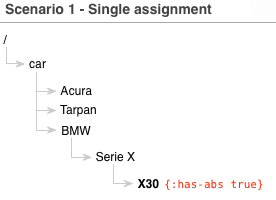
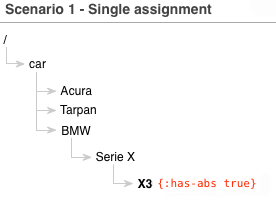
documentation updated

Changed region(s): [[0.5507, 0.87, 0.9565, 0.96]]

diff --git a/docs/literate.html b/docs/literate.html
@@ -2903,9 +2903,25 @@ down the tree.</p>
              :has-trailer {:excluded true}}}])</pre></td></tr><tr><td class="docs"><p>Creating a tree is trivial - <code>create-tree</code> function takes care of details. This function expects
 a structure as the one prepared earlier and returns a tree which can be used in further queries.</p>
 </td><td class="codes"><pre class="brush: clojure">(create-tree categories)</pre></td></tr><tr><td class="docs"><p>All queries have identical form: tree wrapped into <code>with-tree</code> macro is passed down as bound variable
-to <code>lookup</code> function traverses the tree looking for specified node and its parameters.</p>
+to <code>lookup</code> function which traverses the tree looking for specified node and its parameters.</p>
 </td><td class="codes"><pre class="brush: clojure">(with-tree (create-tree categories)
-  (lookup &quot;/car&quot;))</pre></td></tr><tr><td class="spacer docs">&nbsp;</td><td class="codes" /></tr></table><div class="footer">Generated by <a href="https://github.com/gdeer81/marginalia">Marginalia</a>.&nbsp;&nbsp;Syntax highlighting provided by Alex Gorbatchev's <a href="http://alexgorbatchev.com/SyntaxHighlighter/">SyntaxHighlighter</a><div id="floating-toc"><ul><li class="floating-toc-li" id="floating-toc_categorizer.examples.tree">categorizer.examples.tree</li></ul></div></div><script type="text/javascript">SyntaxHighlighter.defaults['gutter'] = false;
+  (lookup &quot;/car&quot;))</pre></td></tr><tr><td class="docs"><p>Depending on sticky/excluded flags we should get a node (if found) together with combined parameters. Look at the <code>has-alarm</code> parameter. It's defined
+at the top of tree additionally marked as sticky, which means it should be inherited down the tree. Querying for "/car" shows that <code>has-alarm</code> indeed
+gets added to the list of calculated parameters.</p>
+</td><td class="codes"><pre class="brush: clojure">{:path &quot;/car&quot;
+ :params {:status {:values [&quot;active&quot; &quot;inactive&quot;]},
+          :has-alarm {},
+          :has-led {},
+          :has-abs {},
+          :has-gps {}}}</pre></td></tr><tr><td class="docs"><p>Acura happens to have alarm missing in our tree (it's been explicite excluded).</p>
+</td><td class="codes"><pre class="brush: clojure">(with-tree (create-tree categories)
+  (lookup &quot;/car/Acura&quot;))</pre></td></tr><tr><td class="docs"><p>Querying for "/car/Acura" should then return no <code>has-alarm</code> parameter.</p>
+</td><td class="codes"><pre class="brush: clojure">{:path &quot;/car/Acura&quot;,
+ :params {:status {:values [&quot;active&quot; &quot;inactive&quot;]},
+          :has-led {},
+          :has-abs {},
+          :has-gps {},
+          :has-asr {}}}</pre></td></tr><tr><td class="spacer docs">&nbsp;</td><td class="codes" /></tr></table><div class="footer">Generated by <a href="https://github.com/gdeer81/marginalia">Marginalia</a>.&nbsp;&nbsp;Syntax highlighting provided by Alex Gorbatchev's <a href="http://alexgorbatchev.com/SyntaxHighlighter/">SyntaxHighlighter</a><div id="floating-toc"><ul><li class="floating-toc-li" id="floating-toc_categorizer.examples.tree">categorizer.examples.tree</li></ul></div></div><script type="text/javascript">SyntaxHighlighter.defaults['gutter'] = false;
 SyntaxHighlighter.all();
 
 // hackity hack

diff --git a/README.md b/README.md
@@ -13,7 +13,7 @@ It's natural to visualize all categories together as a deeply nested tree. In ca
 
 for example:
 
-    car -> BMW -> Serie X -> X30
+    car -> BMW -> Serie X -> X3
 
 Alright, but having categories with no properties assigned is simply useless. Each category has its own set of properties which in case of cars decide why we prefer Tarpan over BMW ;)
 Properies may be exactly the same for several categories (eg. most of cars have an ABS today), may be unique for one category or be excluded from the other. This is where the scenarios mentioned earlier come onto scene.
@@ -24,7 +24,7 @@ Let's visualize it as a _Scenario 1_:
 
 ![scenario1](docs/scenario1.png "scenario 1")
 
-We have a simplified tree of cars with 3 makes and BMW X30 is a sneaky one having ABS in a standard. Assigning ```:has-abs``` property was trivial, but one day your Pointy Haired Boss announces:
+We have a simplified tree of cars with 3 makes and BMW X3 is a sneaky one having ABS in a standard. Assigning ```:has-abs``` property was trivial, but one day your Pointy Haired Boss announces:
 
 > _Guys, we have a problem. Acura, Tarpan and all 3000 of makes we store have ABS-es as well!_
 
@@ -81,7 +81,7 @@ way we may keep our tree definition flat and more readable.
         :params {:has-xenons {:sticky true :version "extended"}}}
        {:path "/car/BMW/Serie X"
         :params {:has-xenons {:excluded true}}}
-       {:path "/car/BMW/Serie X/X30"
+       {:path "/car/BMW/Serie X/X3"
         :params {:has-sunroof {:sticky true :version "extended"}
                  :has-abs {:excluded true}}}])
 
@@ -101,14 +101,14 @@ Result:
 
 So we got ```Serie X``` with ```:status``` defined as sticky at the top of our tree and ```:condition```, ```:has-abs``` which were defined as sticky at the ```/car``` node.
 Note that we got no ```:has-xenons``` which were assigned to ```/car/BMW``` as sticky. That's because we simply excluded this property on ```/car/BMW/Serie X``` node (_Scenario 3_).
-But that also means, we should get it when asked for ```/car/BMW/Serie X/X30``` as the exclusion was no sticky. Let's check it out:
+But that also means, we should get it when asked for ```/car/BMW/Serie X/X3``` as the exclusion was no sticky. Let's check it out:
 
     (with-tree (create-tree categories)
-        (lookup "/car/BMW/Serie X/X30"))
+        (lookup "/car/BMW/Serie X/X3"))
 
 and result:
 
-    {:path "/car/BMW/Serie X/X30",
+    {:path "/car/BMW/Serie X/X3",
      :params {:status {:value "available"},
               :condition {:value "functioning"},
               :has-xenons {:version "extended"},
